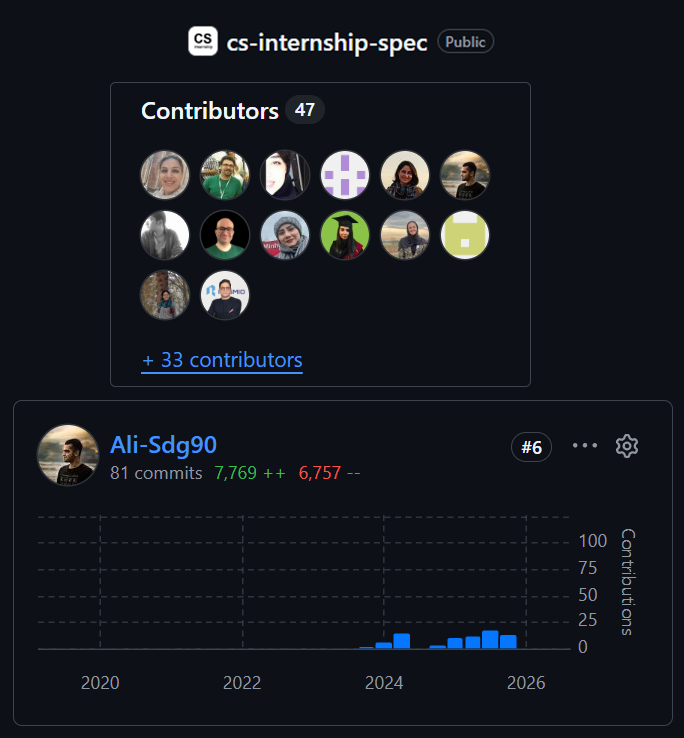
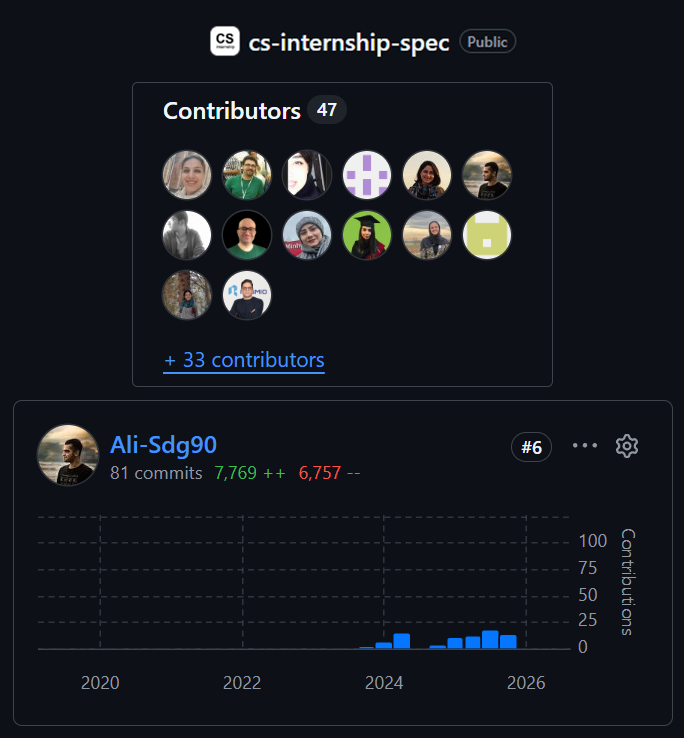
fix: add default size for career gallery images, finalize order of images in about card section

Changed region(s): [[0.1842, 0.1247, 0.7675, 0.4363], [0.2763, 0.0312, 0.7368, 0.0935], [0.2149, 0.4675, 0.4912, 0.4986]]

diff --git a/src/data/aboutSection/aboutCareerData.js b/src/data/aboutSection/aboutCareerData.js
@@ -18,7 +18,7 @@ import melkRadarChartsLarge from "../../assets/images/gallery-images/large-image
 import melkRadarDesignLarge from "../../assets/images/gallery-images/large-images/career/mlk/desing.png";
 import melkRadarKhodroRadarLarge from "../../assets/images/gallery-images/large-images/career/mlk/khd.png";
 import melkRadarMapboxLarge from "../../assets/images/gallery-images/large-images/career/mlk/mapbox.png";
-import melkRadarDvrReceiverAppLarge from "../../assets/images/gallery-images/large-images/projects/dvrbot/img1.jpg";
+import melkRadarDvrReceiverAppLarge from "../../assets/images/gallery-images/large-images/projects/dvrbot/img1.png";
 import melkRadarDvrReceiverTelegramLarge from "../../assets/images/gallery-images/large-images/projects/dvrbot/img2.png";
 import csiClubBot1Small from "../../assets/images/gallery-images/small-images/career/csi/club-bot1.jpg";
 import csiClubBot2Small from "../../assets/images/gallery-images/small-images/career/csi/club-bot2.jpg";
@@ -39,23 +39,101 @@ import melkRadarMapboxSmall from "../../assets/images/gallery-images/small-image
 import melkRadarDvrReceiverAppSmall from "../../assets/images/gallery-images/small-images/projects/drvbot/img1.jpg";
 import melkRadarDvrReceiverTelegramSmall from "../../assets/images/gallery-images/small-images/projects/drvbot/img2.jpg";
 
-const galleryImage = (src, lightboxSrc) => ({ src, lightboxSrc });
+const galleryImage = (
+    src,
+    lightboxSrc,
+    width,
+    height,
+    lightboxWidth,
+    lightboxHeight,
+) => ({
+    src,
+    lightboxSrc,
+    width,
+    height,
+    lightboxWidth,
+    lightboxHeight,
+});
 
-const csiClubBot1 = galleryImage(csiClubBot1Small, csiClubBot1Large);
-const csiClubBot2 = galleryImage(csiClubBot2Small, csiClubBot2Large);
+const csiClubBot1 = galleryImage(
+    csiClubBot1Small,
+    csiClubBot1Large,
+    216,
+    408,
+    864,
+    1633,
+);
+const csiClubBot2 = galleryImage(
+    csiClubBot2Small,
+    csiClubBot2Large,
+    640,
+    400,
+    2559,
+    1599,
+);
 const csiContribution = galleryImage(
     csiContributionSmall,
     csiContributionLarge,
+    171,
+    185,
+    684,
+    738,
 );
-const csiFlowCharts = galleryImage(csiFlowChartsSmall, csiFlowChartsLarge);
-const csiQueueBot1 = galleryImage(csiQueueBot1Small, csiQueueBot1Large);
-const csiQueuePage = galleryImage(csiQueuePageSmall, csiQueuePageLarge);
-const dpaPage1 = galleryImage(dpaPage1Small, dpaPage1Large);
-const dpaPage2 = galleryImage(dpaPage2Small, dpaPage2Large);
-const dpaPage3 = galleryImage(dpaPage3Small, dpaPage3Large);
+const csiFlowCharts = galleryImage(
+    csiFlowChartsSmall,
+    csiFlowChartsLarge,
+    434,
+    171,
+    1736,
+    757,
+);
+const csiQueueBot1 = galleryImage(
+    csiQueueBot1Small,
+    csiQueueBot1Large,
+    253,
+    227,
+    1012,
+    909,
+);
+const csiQueuePage = galleryImage(
+    csiQueuePageSmall,
+    csiQueuePageLarge,
+    640,
+    335,
+    2559,
+    1340,
+);
+const dpaPage1 = galleryImage(
+    dpaPage1Small,
+    dpaPage1Large,
+    222,
+    301,
+    888,
+    1204,
+);
+const dpaPage2 = galleryImage(
+    dpaPage2Small,
+    dpaPage2Large,
+    306,
+    218,
+    1224,
+    870,
+);
+const dpaPage3 = galleryImage(
+    dpaPage3Small,
+    dpaPage3Large,
+    266,
+    224,
+    1064,
+    894,
+);
 const settleitGptImage1 = galleryImage(
     settleitGptImage1Small,
     settleitGptImage1Large,
+    147,
+    320,
+    589,
+    1280,
 );
 // const settleitGptImage2 = galleryImage(
 //     settleitGptImage2Small,
@@ -64,34 +142,66 @@ const settleitGptImage1 = galleryImage(
 const settleitGptImage3 = galleryImage(
     settleitGptImage3Small,
     settleitGptImage3Large,
+    488,
+    305,
+    1952,
+    1220,
 );
 const settleitGptImage4 = galleryImage(
     settleitGptImage4Small,
     settleitGptImage4Large,
+    110,
+    241,
+    438,
+    962,
 );
 const melkRadarCharts = galleryImage(
     melkRadarChartsSmall,
     melkRadarChartsLarge,
+    419,
+    210,
+    1676,
+    841,
 );
 const melkRadarDesign = galleryImage(
     melkRadarDesignSmall,
     melkRadarDesignLarge,
+    200,
+    225,
+    798,
+    900,
 );
 const melkRadarKhodroRadar = galleryImage(
     melkRadarKhodroRadarSmall,
     melkRadarKhodroRadarLarge,
+    687,
+    810,
+    687,
+    810,
 );
 const melkRadarMapbox = galleryImage(
     melkRadarMapboxSmall,
     melkRadarMapboxLarge,
+    480,
+    226,
+    1918,
+    904,
 );
 const melkRadarDvrReceiverApp = galleryImage(
     melkRadarDvrReceiverAppSmall,
     melkRadarDvrReceiverAppLarge,
+    1220,
+    2712,
+    1220,
+    2712,
 );
 const melkRadarDvrReceiverTelegram = galleryImage(
     melkRadarDvrReceiverTelegramSmall,
     melkRadarDvrReceiverTelegramLarge,
+    1053,
+    1477,
+    1053,
+    1477,
 );
 
 export const aboutCareerData = {

diff --git a/src/data/aboutSection/projectGalleryData.js b/src/data/aboutSection/projectGalleryData.js
@@ -8,7 +8,7 @@ import portfolioImage3 from "../../assets/images/gallery-images/large-images/pro
 import dvrReceiverThumbnail1 from "../../assets/images/gallery-images/small-images/projects/drvbot/img1.jpg";
 import dvrReceiverThumbnail2 from "../../assets/images/gallery-images/small-images/projects/drvbot/img2.jpg";
 import dvrReceiverThumbnail3 from "../../assets/images/gallery-images/small-images/projects/drvbot/img3.jpg";
-import dvrReceiverImage1 from "../../assets/images/gallery-images/large-images/projects/dvrbot/img1.jpg";
+import dvrReceiverImage1 from "../../assets/images/gallery-images/large-images/projects/dvrbot/img1.png";
 import dvrReceiverImage2 from "../../assets/images/gallery-images/large-images/projects/dvrbot/img2.png";
 import dvrReceiverImage3 from "../../assets/images/gallery-images/large-images/projects/dvrbot/img3.png";
 
@@ -165,13 +165,6 @@ export const projectGalleryImages = {
     ],
     "fabrexa-ai-ollama": [
         galleryImage(
-            fabrexaThumbnail1,
-            fabrexaImage1,
-            "Fabrexa AI Ollama chat interface",
-            1919,
-            1079,
-        ),
-        galleryImage(
             fabrexaThumbnail2,
             fabrexaImage2,
             "Fabrexa AI Ollama Telegram conversation",
@@ -185,15 +178,15 @@ export const projectGalleryImages = {
             1234,
             2215,
         ),
+        galleryImage(
+            fabrexaThumbnail1,
+            fabrexaImage1,
+            "Fabrexa AI Ollama chat interface",
+            1919,
+            1079,
+        ),
     ],
     "cs-queue-calendar": [
-        galleryImage(
-            queueCalendarThumbnail1,
-            queueCalendarImage1,
-            "CS Queue Calendar schedule overview",
-            2559,
-            1599,
-        ),
         galleryImage(
             queueCalendarThumbnail3,
             queueCalendarImage3,
@@ -210,17 +203,15 @@ export const projectGalleryImages = {
             2559,
             1340,
         ),
-    ],
-    "cs-club-bot": [
         galleryImage(
-            clubBotThumbnail2,
-            clubBotImage2,
-            "CS Club Bot workflow overview",
-            640,
-            400,
+            queueCalendarThumbnail1,
+            queueCalendarImage1,
+            "CS Queue Calendar schedule overview",
             2559,
             1599,
         ),
+    ],
+    "cs-club-bot": [
         galleryImage(
             clubBotThumbnail1,
             clubBotImage1,
@@ -237,15 +228,17 @@ export const projectGalleryImages = {
             2452,
             1979,
         ),
+        galleryImage(
+            clubBotThumbnail2,
+            clubBotImage2,
+            "CS Club Bot workflow overview",
+            640,
+            400,
+            2559,
+            1599,
+        ),
     ],
     "cs-queue-bot": [
-        galleryImage(
-            queueBotThumbnail2,
-            queueBotImage2,
-            "CS Queue Bot queue management page",
-            1919,
-            1079,
-        ),
         galleryImage(
             queueBotThumbnail1,
             queueBotImage1,
@@ -261,6 +254,13 @@ export const projectGalleryImages = {
             "CS Queue Bot mobile workflow",
             1048,
             1933,
+        ),
+        galleryImage(
+            queueBotThumbnail2,
+            queueBotImage2,
+            "CS Queue Bot queue management page",
+            1919,
+            1079,
         ),
     ],
     "gradient-paint": [
